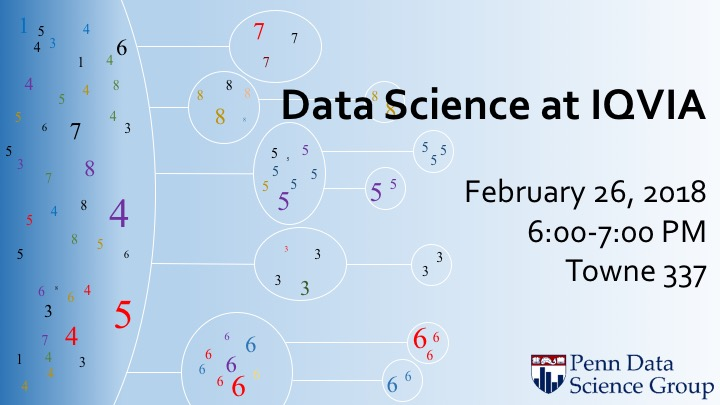
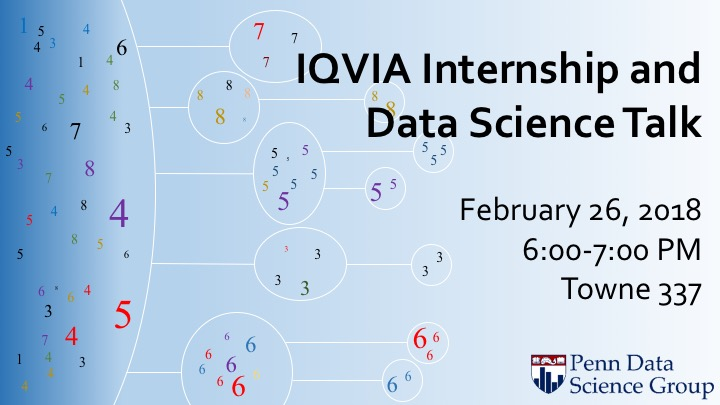
IQVIA changed

Changed region(s): [[0.3667, 0.1185, 0.9778, 0.3556], [0.6417, 0.4444, 0.9778, 0.7704]]

diff --git a/events/_posts/2018-02-26-iqvia_talk.md b/events/_posts/2018-02-26-iqvia_talk.md
@@ -1,11 +1,18 @@
 ---
 layout: event
-title: Data Science at IQVIA
+title: Internship and Data Science at IQVIA
 upcoming: true
 time: "6:00 PM - 7:00 PM"
 location: Towne 337
 image: /images/events/IQVIA.jpg
 rsvp: https://docs.google.com/forms/d/e/1FAIpQLSfAgW2qMwcUTO2Av5ViyGRlDQFMFRO6Hat87ljxKnWqxVBgdw/viewform?usp=sf_link
 big_header: false
-description: 'Come learn about what a career in data science at IQVIA looks like. Food will be provided.'
+description: 'Come and hear IQVIA for a talk on data science and open internship positions.'
 ---
+Are you excited to have petabytes of structured and unstructured real-world data to apply your machine learning skills to? Did you know that IQVIA™ processed more transactions last year than Google? Are you looking to use your knowledge to make a real impact on peoples’ lives? IQVIA has the data and is looking for smart, enthusiastic interns to help create innovative machine learning solutions to drive the next generation of healthcare.
+
+IQVIA™ is a leading integrated information and technology-enabled worldwide healthcare service provider. Formed by the merger of Quintiles and IMS Health, we use our experience, resources and reputation to help our clients drive healthcare forward. IQVIA™ mobilizes unparalleled data, analytics, technology, and expertise through solutions connecting stakeholders to improve health.
+
+Please join us on Monday 2/26 from 6-7pm in Towne 337 to learn more about our company and to hear about some of the exciting machine learning and advanced analytics work we are focused on. Pizza will be served.
+
+We look forward to meeting you!
